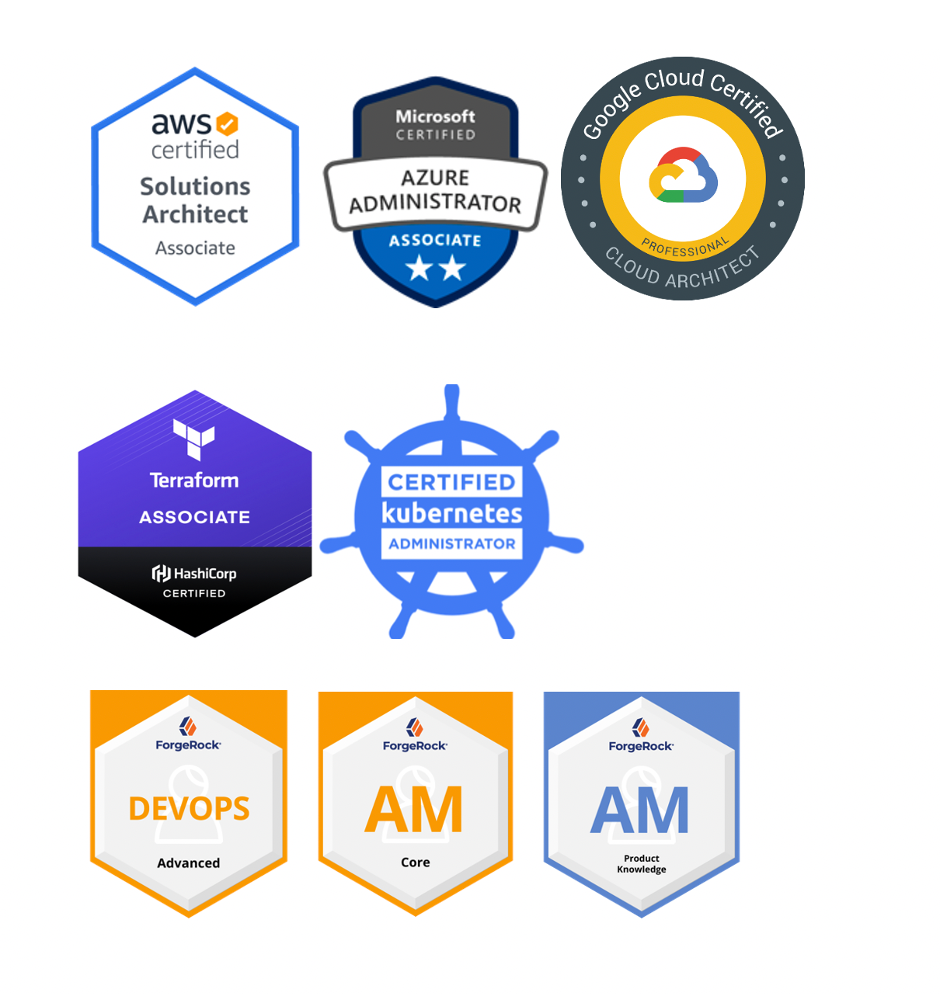
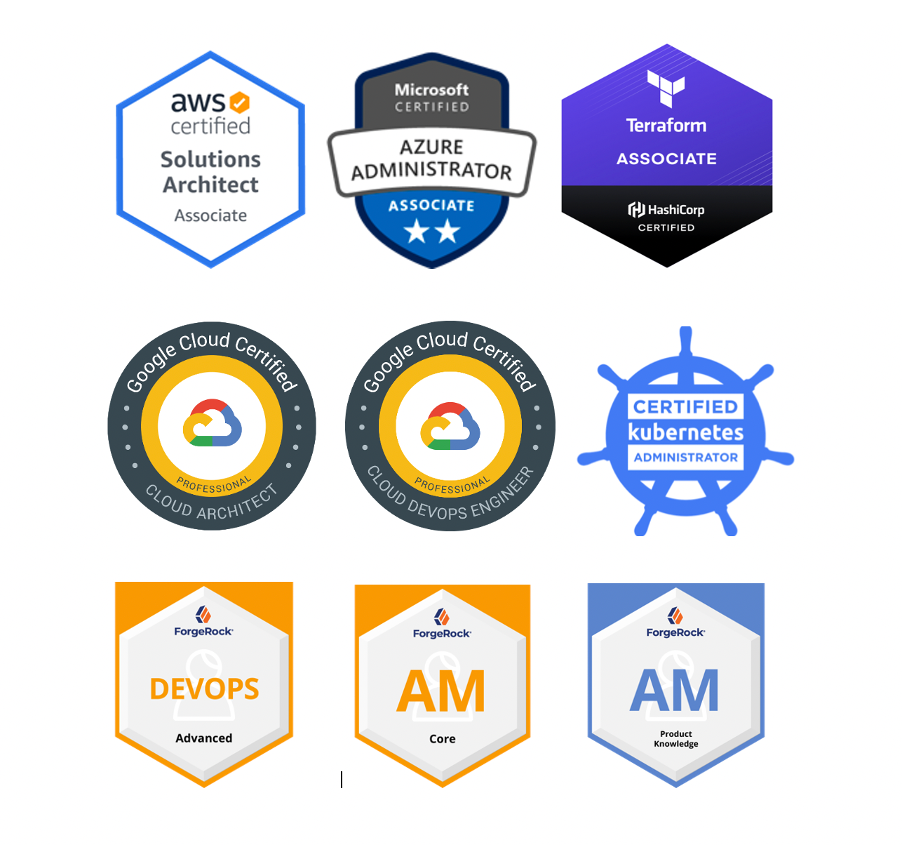
upload certs

Changed region(s): [[0.0621, 0.3688, 0.9002, 0.6454], [0.0931, 0.0307, 0.8692, 0.3381], [0.0931, 0.6761, 0.8692, 0.9527]]

diff --git a/content/certifications/_index.md b/content/certifications/_index.md
@@ -6,6 +6,7 @@ featured_image: '/images/Devops-1.jpg'
 
 https://www.youracclaim.com/users/surjeet.singh
 
+https://www.credential.net/profile/surjeetsingh568/wallet#gs.qt3jbt
 
-![CERTS](/images/certs.png)
+![CERTS](/images/Certs.png)
 
